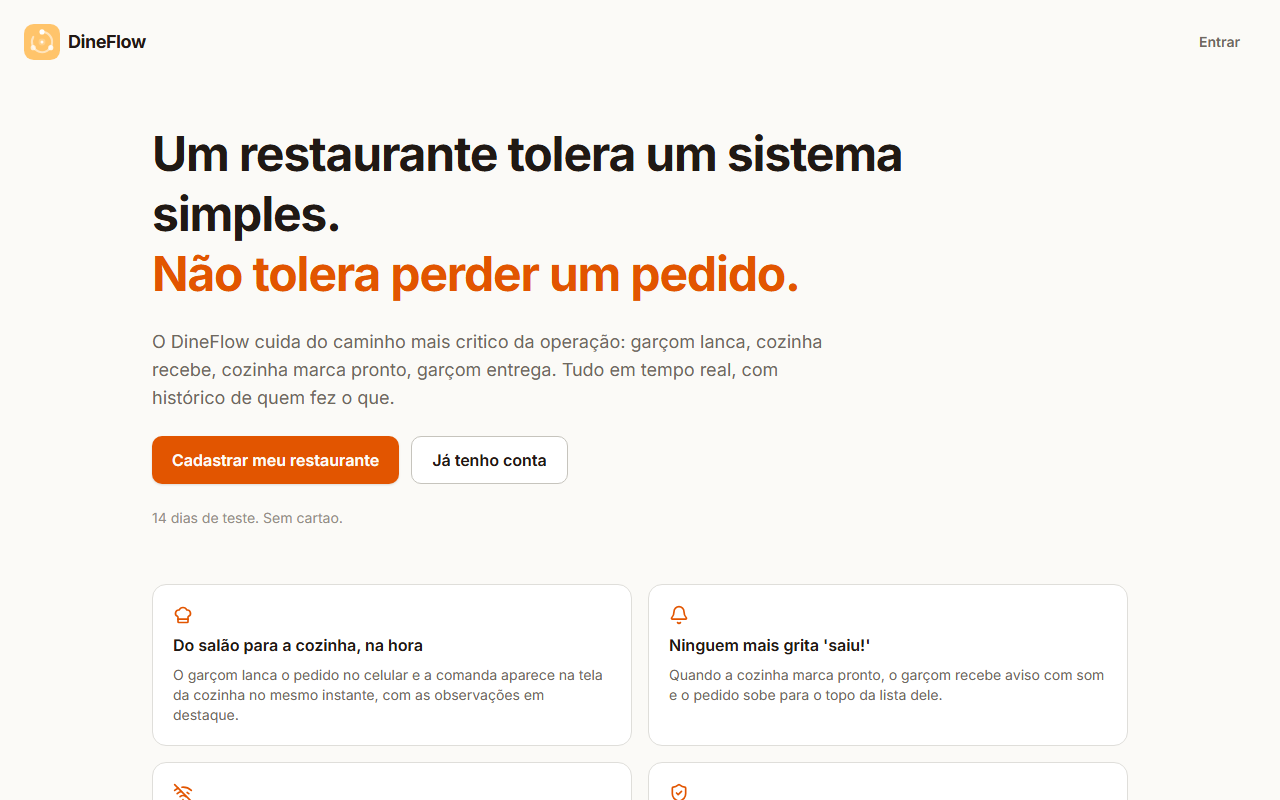
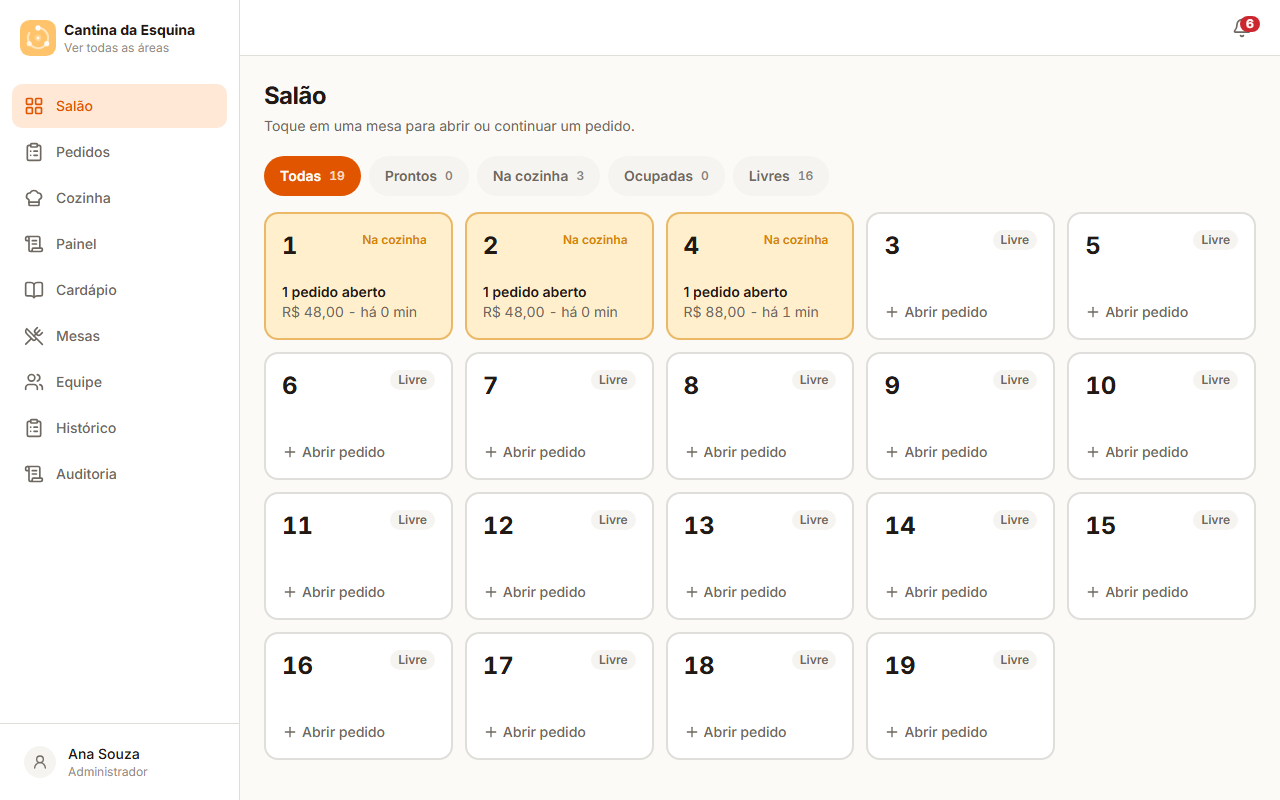
feat: múltiplos prints por dispositivo, mockup menor, mais descrição
Cada moldura (desktop e celular) agora aceita uma lista de imagens, com
bolinhas pequenas pra trocar entre elas sem sair do card — DineFlow
mostra Salão e Cozinha na moldura de desktop. O mockup também ficou bem
menor (320px de altura em vez de 460px), pra caber mais perto da tela
sem rolar tanto. E as descrições de cada projeto ficaram mais completas.

Prints reais do DineFlow: entrei no app de verdade (conta de teste
dedicada, criada via API do Supabase — sem usar login/senha real de
ninguém), limpei pedidos antigos travados numa comanda de meses atrás e
um produto "teste" que sobrou de outro teste, criei um cardápio de
verdade e pedidos frescos, e capturei Salão + Cozinha + a versão mobile
do app rodando de verdade — não mais só a landing page.

diff --git a/src/sections/Projects.jsx b/src/sections/Projects.jsx
@@ -3,10 +3,10 @@ import { motion } from "motion/react";
 import { Icon } from "../components/Icon";
 import { DeviceMockup } from "../components/DeviceMockup";
 const projects=[
- {name:"CodeFlow",subtitle:"Plataforma para aprender programação",description:"Ensino de programação do zero com aulas curtas, código rodando no próprio navegador e correção que explica o porquê do erro — inspirado no modelo do Duolingo.",stack:["React","TypeScript","Supabase","Vite"],repo:"https://github.com/EduuGah/CodeFlow",demo:"https://github.com/EduuGah/CodeFlow",desktopImage:"/projetos/codeflow.png",mobileImage:"/projetos/codeflow-mobile.png"},
- {name:"DineFlow",subtitle:"Pedidos em tempo real para restaurantes",description:"Fluxo de pedidos entre atendimento e cozinha, com dados isolados por restaurante.",stack:["Next.js","TypeScript","Supabase"],repo:"https://github.com/EduuGah/DineFlow",demo:"https://dine-flow-zeta-snowy.vercel.app/",desktopImage:"/projetos/dineflow-1.png",mobileImage:"/projetos/dineflow-3.png"},
- {name:"CutFlow",subtitle:"Gestão para barbearias",description:"Agenda, profissionais, serviços e horários reunidos em uma aplicação de gestão.",stack:["React","TypeScript","Node.js","PostgreSQL"],repo:"https://github.com/EduuGah/CutFlow",demo:"https://cut-flow-sandy.vercel.app/",desktopImage:"/projetos/cutflow-1.png",mobileImage:"/projetos/cutflow-3.png"},
- {name:"CoupleFlow",subtitle:"Organização compartilhada para casais",description:"Espaço para organizar ideias, atividades e planos compartilhados em um só lugar.",stack:["React","TypeScript","Firebase"],repo:"https://github.com/EduuGah/CoupleFlow",demo:"https://couple-flow.vercel.app/",desktopImage:"/projetos/coupleflow.png",mobileImage:"/projetos/coupleflow-mobile.png"}
+ {name:"CodeFlow",subtitle:"Plataforma para aprender programação",description:"Plataforma de ensino de programação do zero, com aulas curtas divididas em passos e código do aluno rodando de verdade dentro do próprio navegador — sem enviar nada para um servidor. A correção explica o porquê do erro, não só se acertou, e o progresso vem com sequência de dias, XP e conquistas, no espírito do Duolingo. Já são 14 trilhas (JavaScript, TypeScript, React, SQL, Node, Python e mais), com mais de 800 exercícios.",stack:["React","TypeScript","Supabase","Vite"],repo:"https://github.com/EduuGah/CodeFlow",demo:"https://github.com/EduuGah/CodeFlow",desktopImages:["/projetos/codeflow.png"],mobileImages:["/projetos/codeflow-mobile.png"]},
+ {name:"DineFlow",subtitle:"Pedidos em tempo real para restaurantes",description:"Sistema de pedidos para restaurantes: o garçom lança o pedido pelo celular, a mesa aparece ocupada na hora, e a cozinha recebe a comanda em tempo real — sem passar papel de mão em mão. Quando o prato fica pronto, a cozinha marca, e o garçom é avisado sozinho, sem precisar ficar checando. Cada restaurante tem os próprios dados isolados no banco, e a regra do projeto é simples: um sistema pode ser básico, mas nunca pode perder um pedido.",stack:["Next.js","TypeScript","Supabase"],repo:"https://github.com/EduuGah/DineFlow",demo:"https://dine-flow-zeta-snowy.vercel.app/",desktopImages:["/projetos/dineflow-1.png","/projetos/dineflow-2.png"],mobileImages:["/projetos/dineflow-3.png"]},
+ {name:"CutFlow",subtitle:"Gestão para barbearias",description:"Agenda de barbearia que mostra só os horários que cada profissional realmente tem livre — sem depender de telefonema nem de decorar a grade de ninguém. O cliente escolhe o dia, vê os horários que sobraram considerando a duração de cada serviço, confirma, e a vaga já sai da agenda de todo mundo na hora — sem risco de dois clientes caírem no mesmo horário. Cadastro de profissionais, serviços e horários de funcionamento, tudo reunido numa aplicação só.",stack:["React","TypeScript","Node.js","PostgreSQL"],repo:"https://github.com/EduuGah/CutFlow",demo:"https://cut-flow-sandy.vercel.app/",desktopImages:["/projetos/cutflow-1.png","/projetos/cutflow-2.png"],mobileImages:["/projetos/cutflow-3.png"]},
+ {name:"CoupleFlow",subtitle:"Organização compartilhada para casais",description:"Espaço compartilhado para um casal organizar a vida a dois num só lugar, em vez de espalhado entre grupos de mensagem e anotações soltas: ideias, atividades planejadas e metas em comum, visíveis para os dois ao mesmo tempo.",stack:["React","TypeScript","Firebase"],repo:"https://github.com/EduuGah/CoupleFlow",demo:"https://couple-flow.vercel.app/",desktopImages:["/projetos/coupleflow.png"],mobileImages:["/projetos/coupleflow-mobile.png"]}
 ];
 export function Projects(){
   const [index,setIndex]=useState(0);
@@ -17,7 +17,7 @@ export function Projects(){
     <div className="projects-carousel">
       <button type="button" className="projects-carousel-arrow projects-carousel-arrow-prev" onClick={()=>go(-1)} aria-label="Projeto anterior"><Icon name="arrow" size={18} className="projects-carousel-arrow-icon-prev"/></button>
       <motion.article className="project-card project-card-featured" key={p.name} initial={{opacity:0,x:24}} animate={{opacity:1,x:0}} transition={{duration:.35}}>
-        <DeviceMockup desktopImage={p.desktopImage} mobileImage={p.mobileImage} alt={`Tela do projeto ${p.name}`} demo={p.demo}/>
+        <DeviceMockup desktopImages={p.desktopImages} mobileImages={p.mobileImages} alt={`Tela do projeto ${p.name}`} demo={p.demo}/>
         <div className="project-content">
           <div className="project-title-row"><div><h3>{p.name}</h3><strong className="project-subtitle">{p.subtitle}</strong></div></div>
           <p>{p.description}</p>

diff --git a/src/styles.css b/src/styles.css
@@ -205,11 +205,13 @@ canvas{opacity:.48}@media(prefers-reduced-motion:reduce){html{scroll-behavior:au
   display: block;
   object-fit: cover;
   object-position: top;
+}
+
+.device-browser-screen img {
   transition: transform 0.5s;
 }
 
-.project-card:hover .device-browser-screen img,
-.project-card:hover .device-phone-screen img {
+.project-card:hover .device-browser-screen img {
   transform: scale(1.04);
 }
 
@@ -229,12 +231,12 @@ canvas{opacity:.48}@media(prefers-reduced-motion:reduce){html{scroll-behavior:au
 }
 
 .project-card-featured .project-image-container {
-  height: 460px;
+  height: 320px;
 }
 
 .project-card-featured .device-mockup {
-  padding: 34px;
-  gap: 24px;
+  padding: 22px;
+  gap: 16px;
 }
 
 .project-card-featured .device-browser {
@@ -242,50 +244,83 @@ canvas{opacity:.48}@media(prefers-reduced-motion:reduce){html{scroll-behavior:au
 }
 
 .project-card-featured .device-browser-bar {
-  flex-basis: 26px;
-  gap: 7px;
-  padding: 0 12px;
+  flex-basis: 22px;
+  gap: 6px;
+  padding: 0 10px;
 }
 
 .project-card-featured .device-dot {
-  width: 9px;
-  height: 9px;
+  width: 8px;
+  height: 8px;
 }
 
 .project-card-featured .device-phone {
-  width: 160px;
-  max-height: 340px;
-  border-radius: 22px;
+  width: 108px;
+  max-height: 232px;
+  border-radius: 18px;
   border-width: 3px;
 }
 
 .project-card-featured .device-phone-notch {
-  top: 10px;
-  width: 42px;
-  height: 6px;
+  top: 8px;
+  width: 32px;
+  height: 5px;
 }
 
 .project-card-featured .device-phone-screen {
   inset: 4px;
-  border-radius: 18px;
+  border-radius: 15px;
 }
 
 .project-card-featured .project-content {
-  padding: 32px 36px;
+  padding: 22px 28px;
   min-height: 0;
 }
 
 .project-card-featured .project-content h3 {
-  font-size: 30px;
+  font-size: 26px;
 }
 
 .project-card-featured .project-subtitle {
-  font-size: 14px;
+  font-size: 13px;
 }
 
 .project-card-featured .project-content > p {
-  max-width: 620px;
-  font-size: 15px;
+  max-width: 680px;
+  font-size: 14px;
+  line-height: 1.6;
+}
+
+.device-screen-dots {
+  position: absolute;
+  bottom: 6px;
+  left: 0;
+  right: 0;
+  display: flex;
+  justify-content: center;
+  gap: 5px;
+  z-index: 3;
+}
+
+.device-phone .device-screen-dots {
+  bottom: 4px;
+}
+
+.device-screen-dot {
+  width: 5px;
+  height: 5px;
+  padding: 0;
+  border: 0;
+  border-radius: 50%;
+  background: rgba(255, 255, 255, 0.4);
+  cursor: pointer;
+  transition: width 0.2s ease, border-radius 0.2s ease, background 0.2s ease;
+}
+
+.device-screen-dot.active {
+  width: 14px;
+  border-radius: 3px;
+  background: var(--accent);
 }
 
 .projects-carousel-arrow {
@@ -338,12 +373,12 @@ canvas{opacity:.48}@media(prefers-reduced-motion:reduce){html{scroll-behavior:au
 
 @media (max-width: 900px) {
   .project-card-featured .project-image-container {
-    height: 400px;
+    height: 300px;
   }
 
   .project-card-featured .device-phone {
-    width: 130px;
-    max-height: 280px;
+    width: 96px;
+    max-height: 210px;
   }
 }
 
@@ -358,13 +393,13 @@ canvas{opacity:.48}@media(prefers-reduced-motion:reduce){html{scroll-behavior:au
   }
 
   .project-card-featured .project-image-container {
-    height: 340px;
+    height: 300px;
   }
 
   .project-card-featured .device-mockup {
     flex-direction: column;
-    padding: 16px;
-    gap: 12px;
+    padding: 14px;
+    gap: 10px;
   }
 
   .project-card-featured .device-browser {
@@ -373,14 +408,14 @@ canvas{opacity:.48}@media(prefers-reduced-motion:reduce){html{scroll-behavior:au
   }
 
   .project-card-featured .device-phone {
-    width: 90px;
-    height: 150px;
-    max-height: 150px;
+    width: 84px;
+    height: 138px;
+    max-height: 138px;
     flex: 0 0 auto;
     border-radius: 16px;
   }
 
   .project-card-featured .project-content {
-    padding: 24px;
+    padding: 20px;
   }
 }

diff --git a/src/components/DeviceMockup.jsx b/src/components/DeviceMockup.jsx
@@ -1,4 +1,32 @@
-export function DeviceMockup({ desktopImage, mobileImage, alt, demo }) {
+import { useState } from "react";
+
+function ScreenDots({ count, index, onPick }) {
+  if (count <= 1) return null;
+  return (
+    <div className="device-screen-dots">
+      {Array.from({ length: count }).map((_, i) => (
+        <button
+          key={i}
+          type="button"
+          className={`device-screen-dot${i === index ? " active" : ""}`}
+          onClick={(e) => {
+            e.preventDefault();
+            e.stopPropagation();
+            onPick(i);
+          }}
+          aria-label={`Imagem ${i + 1} de ${count}`}
+        />
+      ))}
+    </div>
+  );
+}
+
+export function DeviceMockup({ desktopImages, mobileImages, alt, demo }) {
+  const desktops = desktopImages ?? [];
+  const mobiles = mobileImages ?? [];
+  const [desktopIndex, setDesktopIndex] = useState(0);
+  const [mobileIndex, setMobileIndex] = useState(0);
+
   return (
     <a className="project-image-container device-mockup" href={demo} target="_blank" rel="noreferrer" aria-label={alt}>
       <div className="device-browser">
@@ -8,13 +36,23 @@ export function DeviceMockup({ desktopImage, mobileImage, alt, demo }) {
           <span className="device-dot device-dot-green" />
         </div>
         <div className="device-browser-screen">
-          <img src={desktopImage} alt={`${alt} — versão desktop`} loading="lazy" />
+          <img
+            src={desktops[desktopIndex]}
+            alt={`${alt} — versão desktop, imagem ${desktopIndex + 1} de ${desktops.length}`}
+            loading="lazy"
+          />
+          <ScreenDots count={desktops.length} index={desktopIndex} onPick={setDesktopIndex} />
         </div>
       </div>
       <div className="device-phone">
         <div className="device-phone-notch" />
         <div className="device-phone-screen">
-          <img src={mobileImage} alt={`${alt} — versão mobile`} loading="lazy" />
+          <img
+            src={mobiles[mobileIndex]}
+            alt={`${alt} — versão mobile, imagem ${mobileIndex + 1} de ${mobiles.length}`}
+            loading="lazy"
+          />
+          <ScreenDots count={mobiles.length} index={mobileIndex} onPick={setMobileIndex} />
         </div>
       </div>
     </a>
